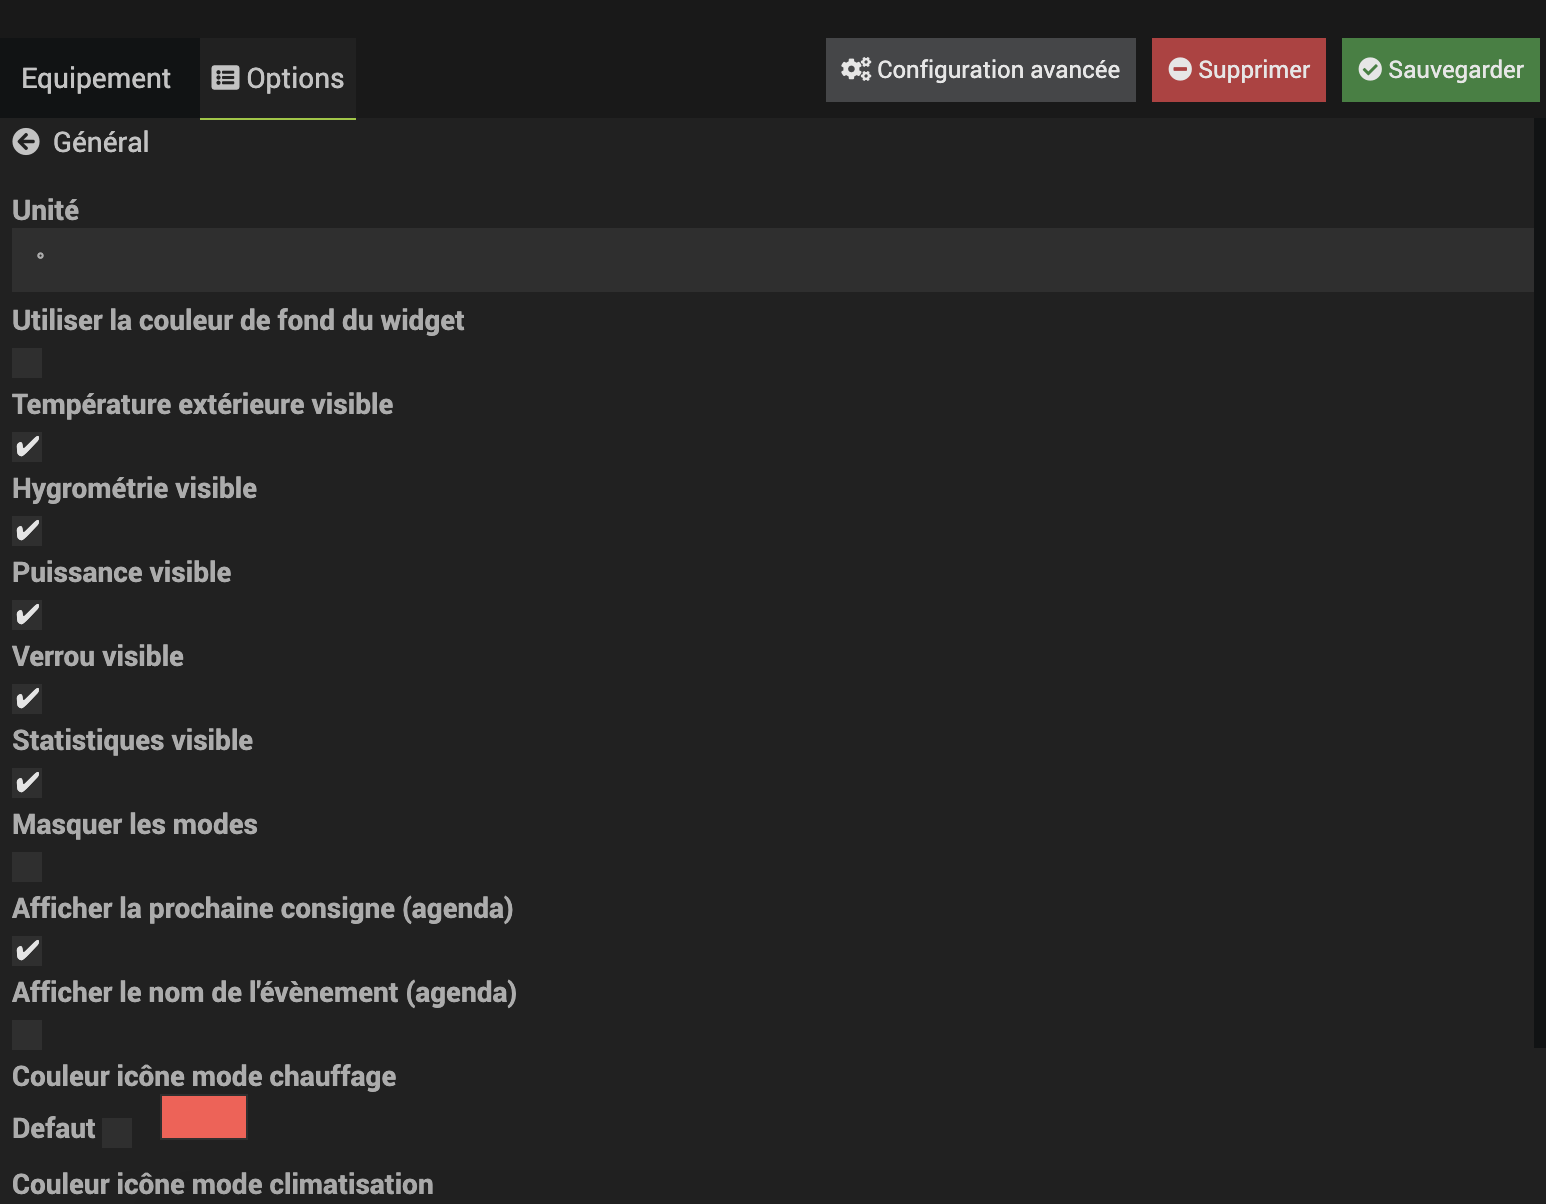
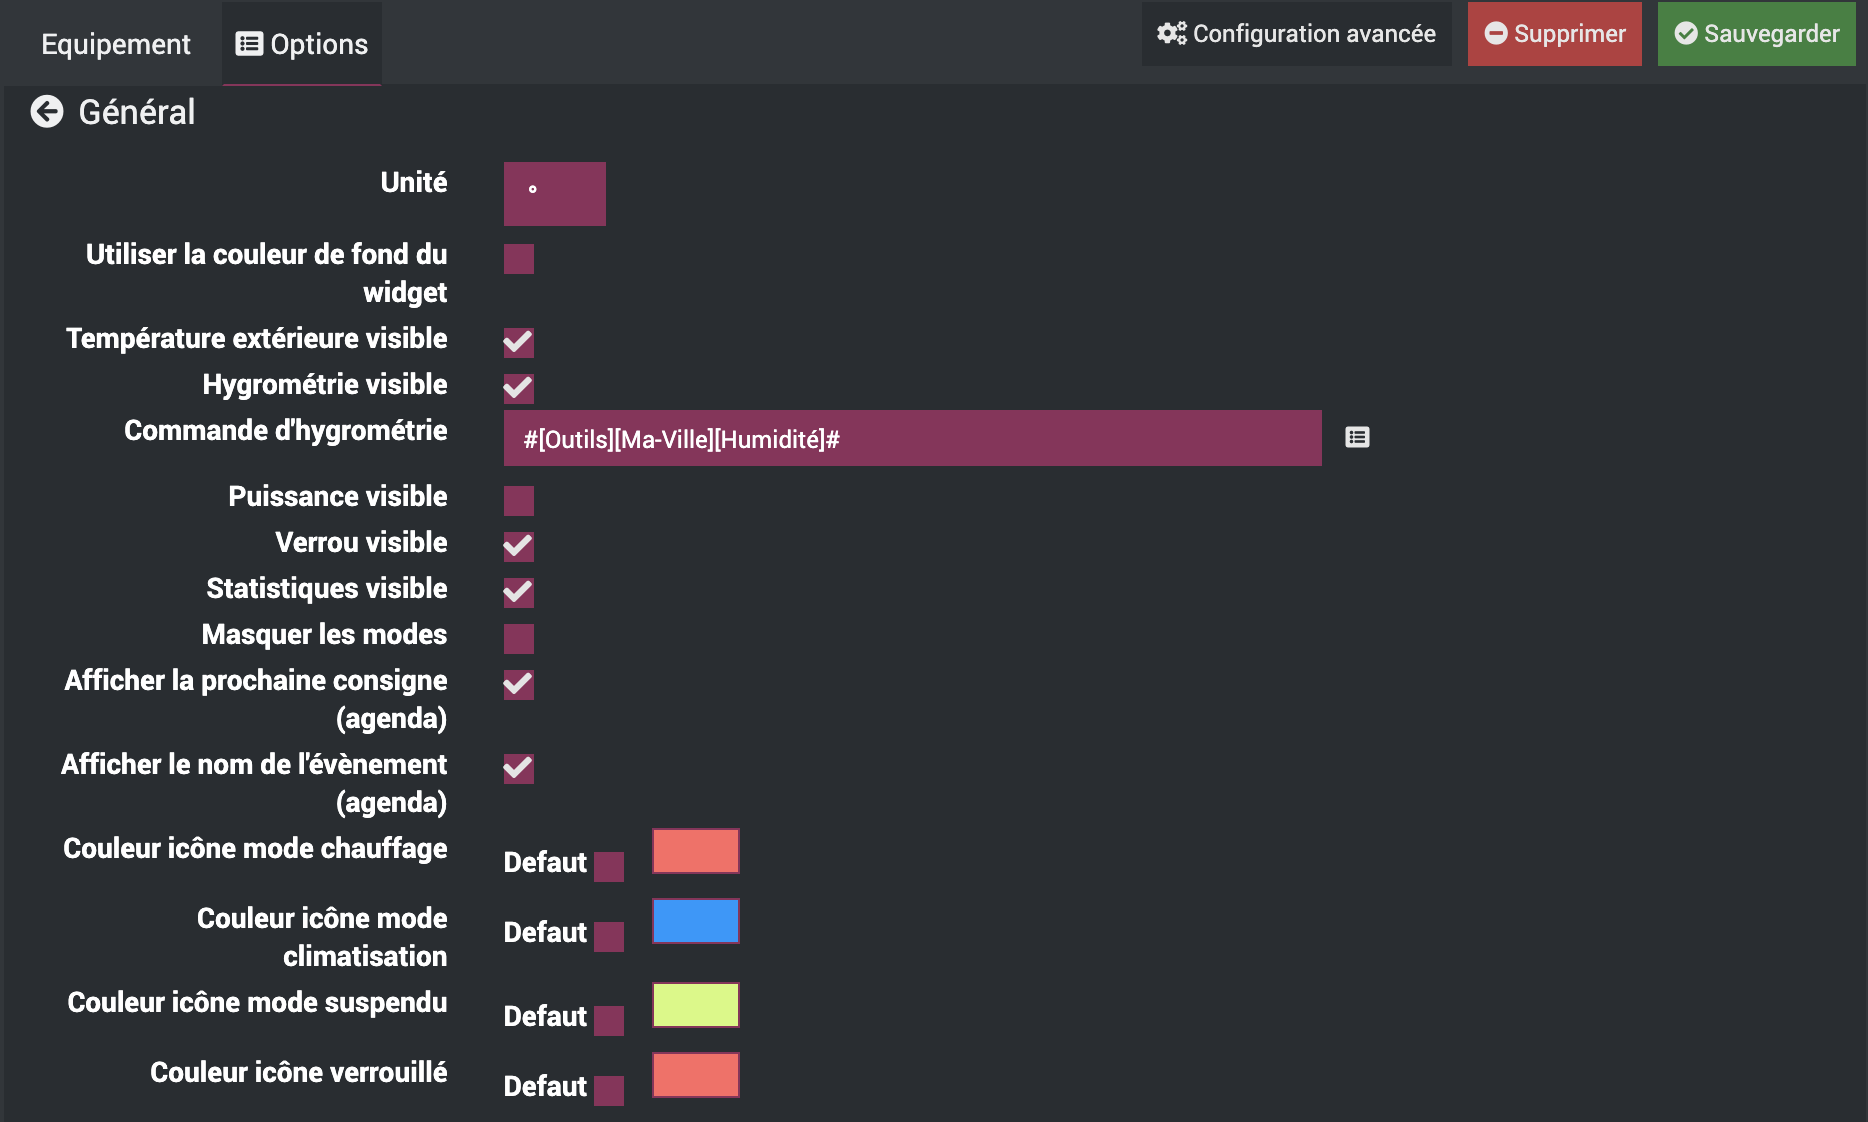
thermoAlternateView 3.0

Changed region(s): [[0.0, 0.1248, 0.7451, 0.9982], [0.0, 0.0, 1.0, 0.8734]]

diff --git a/jeedom-doc/thermoAlternateView/_posts/2017-11-09-thermoAlternateView_fr_FR.md b/jeedom-doc/thermoAlternateView/_posts/2017-11-09-thermoAlternateView_fr_FR.md
@@ -73,7 +73,8 @@ Depuis le menu de gestion, ajoutez un widget. ![](/jeedom-doc/{{ page.title }}/i
 *   **Unité** : Unité de température affichée sur le widget (° par défaut)
 *   **Utiliser la couleur de fond du widget** : Permet d'utiliser la couleur de widget Jeedom plutôt que celle du template
 *   **Température extérieure visible** : Permet d'afficher la température extérieure (configurée dans le thermostat)
-*   **Hygrométrie visible** : Permet d'afficher l'hygrométrie (configurée dans le thermostat)
+*   **Hygrométrie visible** : Permet d'afficher l'hygrométrie
+*   **Commande d'hygrométrie** : Consigne d'hygrométrie affichée sur le thermostat
 *   **Puissance visible** : Permet d'afficher la puissance (configurée dans le thermostat)
 *   **Masquer les modes** : Permet de ne pas afficher le sélecteur de modes
 *   **Afficher la prochaine consigne (agenda)** : Affiche l'heure de la prochaine consigne de chauffage (expérimental). Cette fonctionnalité nécessite le plugin agenda.
@@ -91,6 +92,10 @@ Depuis le menu de gestion, ajoutez un widget. ![](/jeedom-doc/{{ page.title }}/i
 2.  Le rafraîchissement de la prochaine consigne ne fonctionne pas toujours
 
 ## Changelog
+
+V3.0
+
+*   Suite à la suppression de l'information hygrométrie dans le plugin thermostat, ajout de la commande dans la configuration
 
 V2.9
 

diff --git a/jeedom-doc/thermoAlternateView/_posts/2017-11-09-thermoAlternateView_en_US.md b/jeedom-doc/thermoAlternateView/_posts/2017-11-09-thermoAlternateView_en_US.md
@@ -73,7 +73,8 @@ From the management menu, add a widget. ![](/jeedom-doc/{{ page.title }}/images/
 *   **Unit** : Temperature unit displayed on the widget (default °)
 *   **Use the background color of the widget** : Allows you to use the Jeedom widget color instead of the template color
 *   **Display external temperature** : Allows you to display the outdoor temperature (configured in the thermostat)
-*   **Display humidity** : Allows you to display the humidity level (configured in the thermostat)
+*   **Display humidity** : Allows you to display the humidity level
+*   **Humidity command** : Humidity command to display on the widget
 *   **Display power** : Allows you to display the power level (configured in the thermostat)
 *   **Hide modes** : Allows you not to display the mode selector switch
 *   **Display the next heating setpoint (calendar)** : Displays the time of the next (experimental) heating setpoint. This feature requires the agenda plugin.
@@ -91,6 +92,10 @@ From the management menu, add a widget. ![](/jeedom-doc/{{ page.title }}/images/
 2.  The refresh of the next setpoint does not always work
 
 ## Changelog
+
+V3.0
+
+*   Next to the deleted humidity command from the plugin thermostat, adding it into configuration options
 
 V2.9
 
